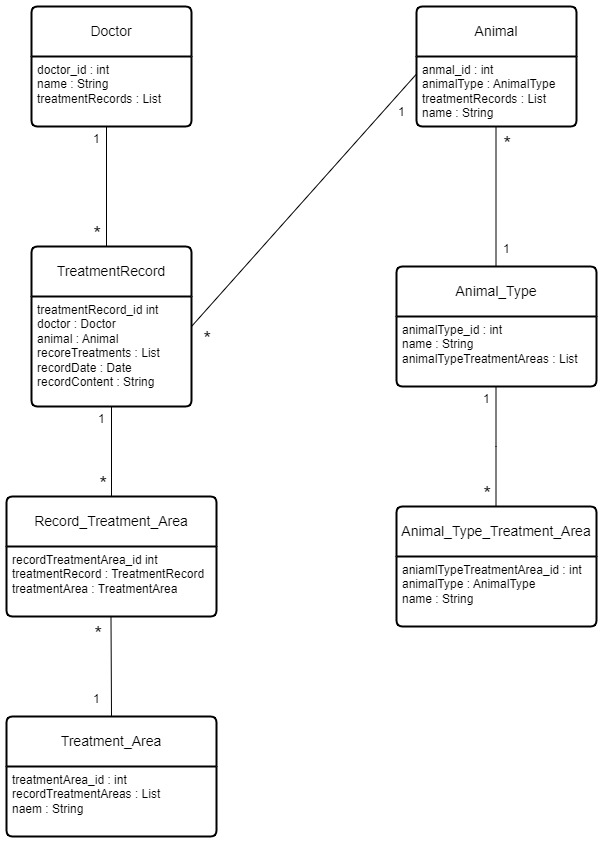
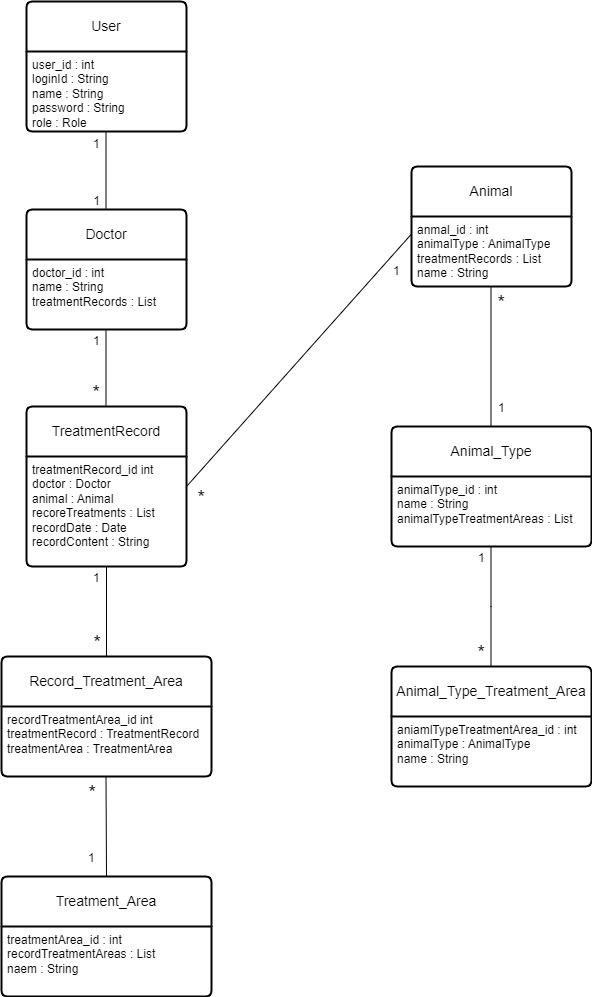
[수정] 로그인을 위한 엔티티 추가

diff --git a/src/main/java/com/clinic/veterinary/api/controller/RecordApiController.java b/src/main/java/com/clinic/veterinary/api/controller/RecordApiController.java
@@ -48,6 +48,7 @@ public class RecordApiController {
             Long id = treatmentRecordService.treatmentRecord(request.getDoctorId(), request.getAnimalId(),
                     request.getAnimalTypeId(), request.getRecordContent(), request.getTreatmentAreaIds());
 
+
             return new CreateRecordResponse(true, id, "진료기록을 저장하였습니다.");
 
         }catch (Exception ex){

diff --git a/src/main/java/com/clinic/veterinary/domain/User.java b/src/main/java/com/clinic/veterinary/domain/User.java
@@ -1,0 +1,12 @@
+package com.clinic.veterinary.domain;
+
+import lombok.Getter;
+import lombok.Setter;
+
+import javax.persistence.Entity;
+
+@Entity
+@Getter
+@Setter
+public class User {
+}
